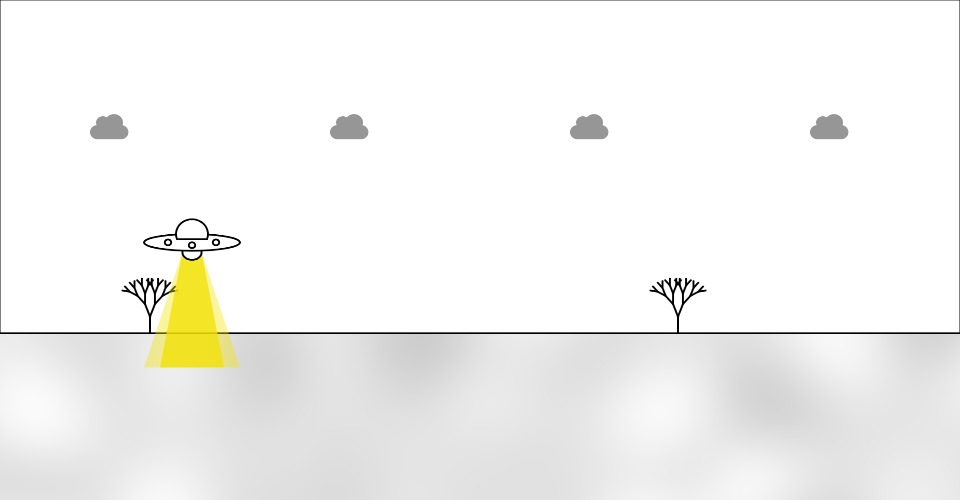
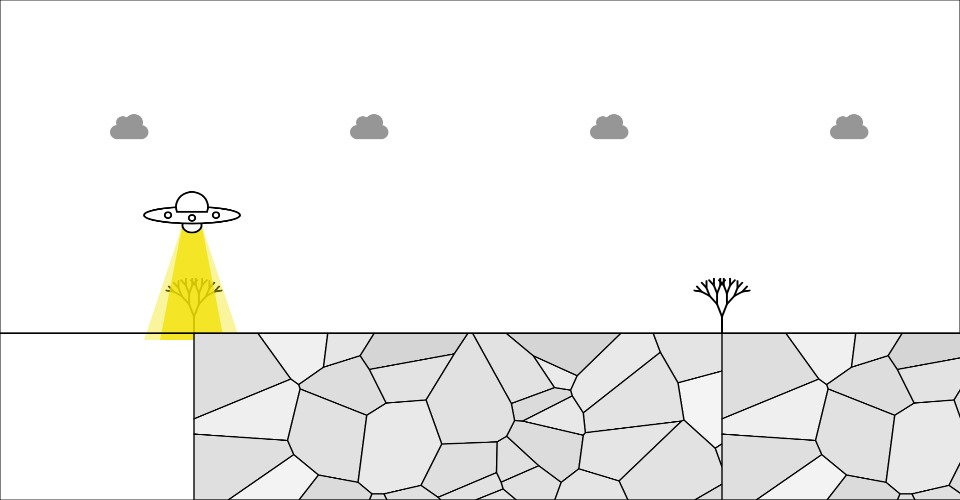
added moving background

diff --git a/draw_one_frame.js b/draw_one_frame.js
@@ -91,7 +91,7 @@ function drawShip(cur_frac){
 	ellipse(shipX+width/40,shipY,width/150);//right
 }
 function drawGround(){
-	let voronoiSegments=70;
+	let voronoiSegments=200;
 	noSmooth();
 	voronoiCellStrokeWeight(width/700);
 	voronoiCellStroke(0);
@@ -119,8 +119,24 @@ function drawGround(){
 	voronoiJitterFactor(3);
 	voronoiJitterBorder(false);
 	voronoi(width, canvasHeight-groundY-canvasHeight/6, false);
-	voronoiDraw(0, groundY, true, false);
+	push();
 	
+	let treeX=map(frameNo,0,24,canvasWidth/4,0-canvasWidth/20);
+	
+	
+	voronoiDraw(treeX, groundY, true, false);
+	
+	push();
+	translate(width/2+canvasWidth/20,0);
+	voronoiDraw(treeX, groundY, true, false);
+	
+	pop();
+
+
+	//translate(tx,0);
+	//voronoiDraw(0, groundY, true, false);
+	//voronoiDraw(width/2, groundY, true, false);
+	pop();
 	
 	//drawn ground line:
 	stroke(0);

diff --git a/README.md b/README.md
@@ -1,1 +1,1 @@
-I have added a voronoi pattern to the ground. The fill of which is done with noise. I used the library https://github.com/Dozed12/p5.voronoi to do so so I didn't have to write heaps of code. I like the look of it much more than rectangles as those are far more generic however this will require more fiddling to get the seed for the random points and the size of the areas created by it right due to the edges looking a bit weird with the super small regions looking weird against the rest which are big. I think it would be worth checking if having far more points driving it and therefore creating more/smaller areas would make it look more interesting. It might also be worth adding movement to the ground but it might make it look too busy.   
+I have tried having the background move. This is too intense as the composition is now too focused on the ground. I tried a couple of different speeds and having it not the same as the trees looked weird but having it slower looked weird as it felt like it should be the same speed. I also tried playing with the colour of the sedgments but that didn't help with the issue. 
